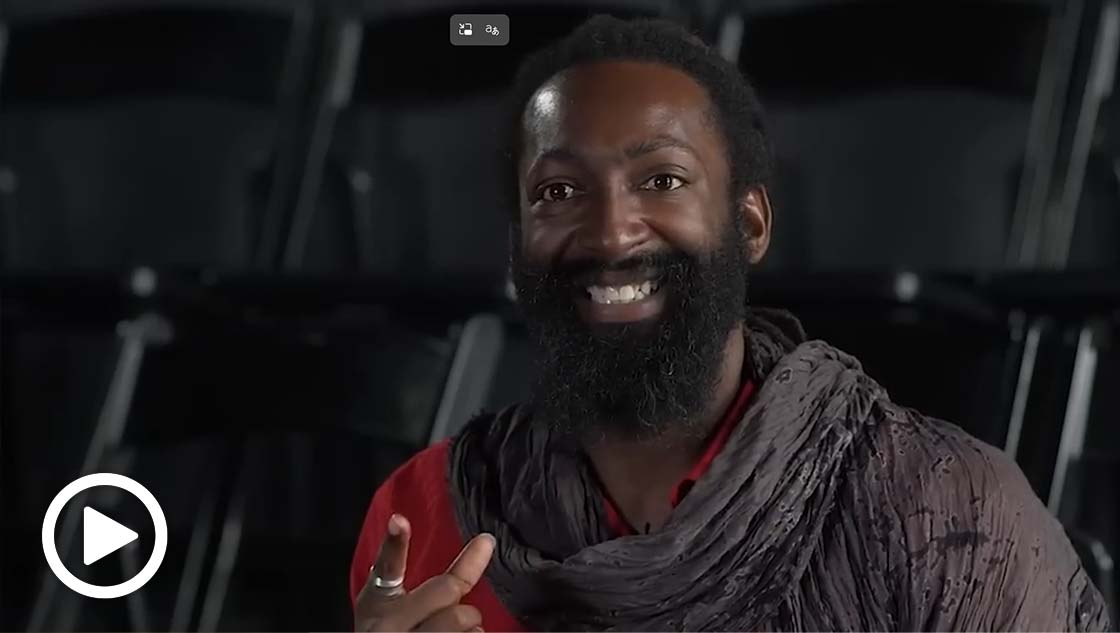
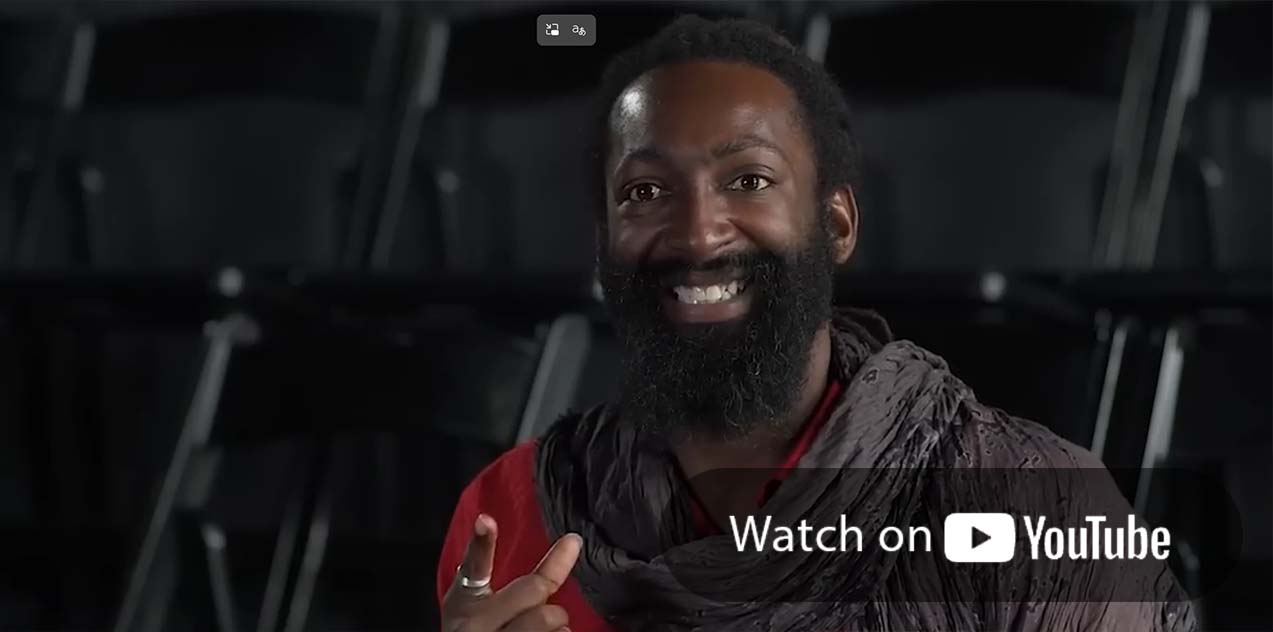
New SMEs

diff --git a/inclusive-design-in-the-ITL.html b/inclusive-design-in-the-ITL.html
@@ -412,11 +412,11 @@ h2 button.disclosure[aria-expanded="true"] .disclosure-icon {
       <figcaption>Learn from Diversity</figcaption>
     </figure>
   </div>
-  <div class="card" id="smes" style="display: grid; grid-template-columns: 1fr 1fr; gap: 0.5em; padding: 0.5em;">
-    <a href=""><img src="-SME1.jpg" alt="" style="width:100%; display:block;"></a>
-    <a href=""><img src="-SME2.jpg" alt="" style="width:100%; display:block;"></a>
-    <a href=""><img src="-SME3.jpg" alt="" style="width:100%; display:block;"></a>
-    <a href=""><img src="-SME4.jpg" alt="" style="width:100%; display:block;"></a>
+  <div class="card" id="smes" style="display: grid; grid-template-columns: 1fr 1fr; gap: 0em; padding: 0em;">
+    <a href="https://www.youtube.com/watch?v=eva5b_Ov7uo" target="_blank"><img src="-SME1.jpg" alt="" style="width:100%; display:block;"></a>
+    <a href="https://www.youtube.com/watch?v=-nGaDdfLXNg" target="_blank"><img src="-SME2.jpg" alt="" style="width:100%; display:block;"></a>
+    <a href="https://www.youtube.com/watch?v=Sl0iV7VyqN0" target="_blank"><img src="-SME3.jpg" alt="" style="width:100%; display:block;"></a>
+    <a href="https://www.youtube.com/watch?v=LxHRQod1d-4" target="_blank"><img src="-SME4.jpg" alt="" style="width:100%; display:block;"></a>
   </div>
 </div>
 
